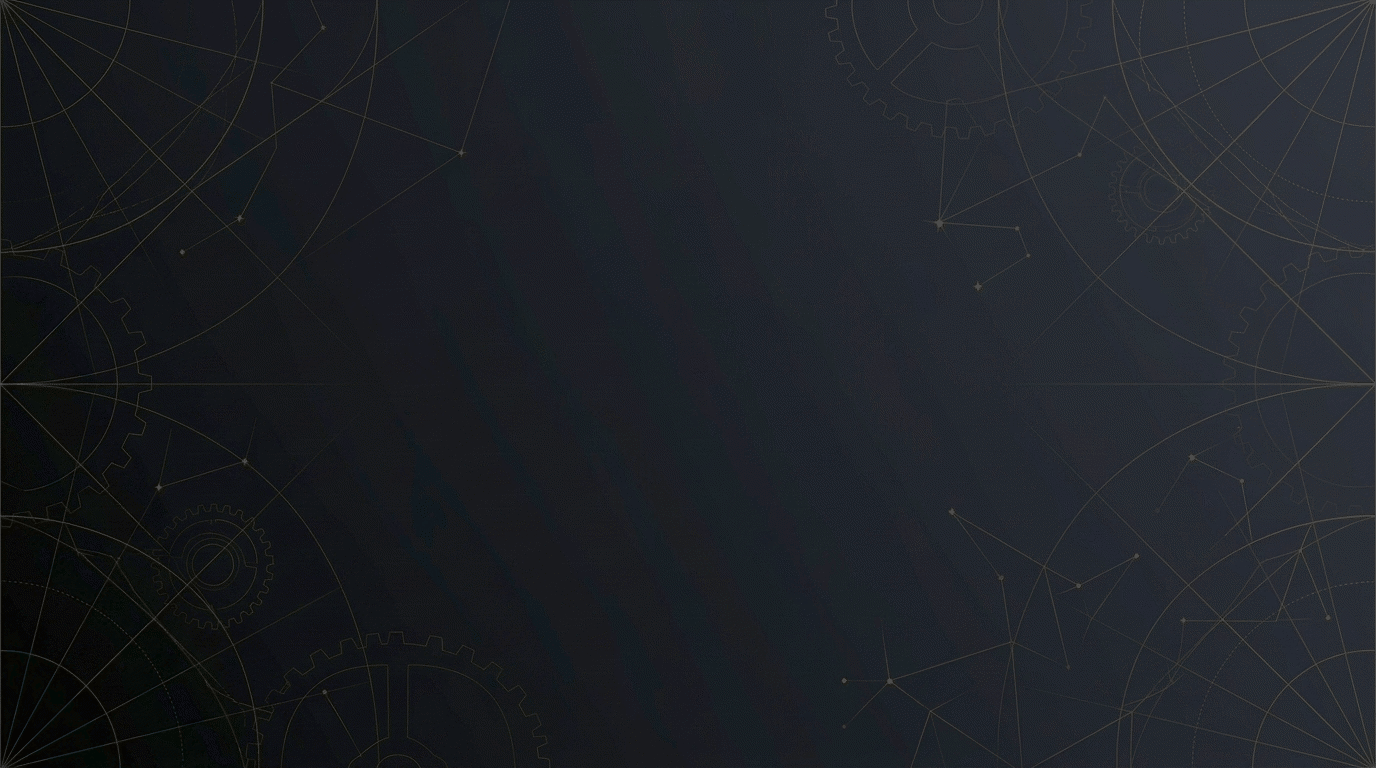
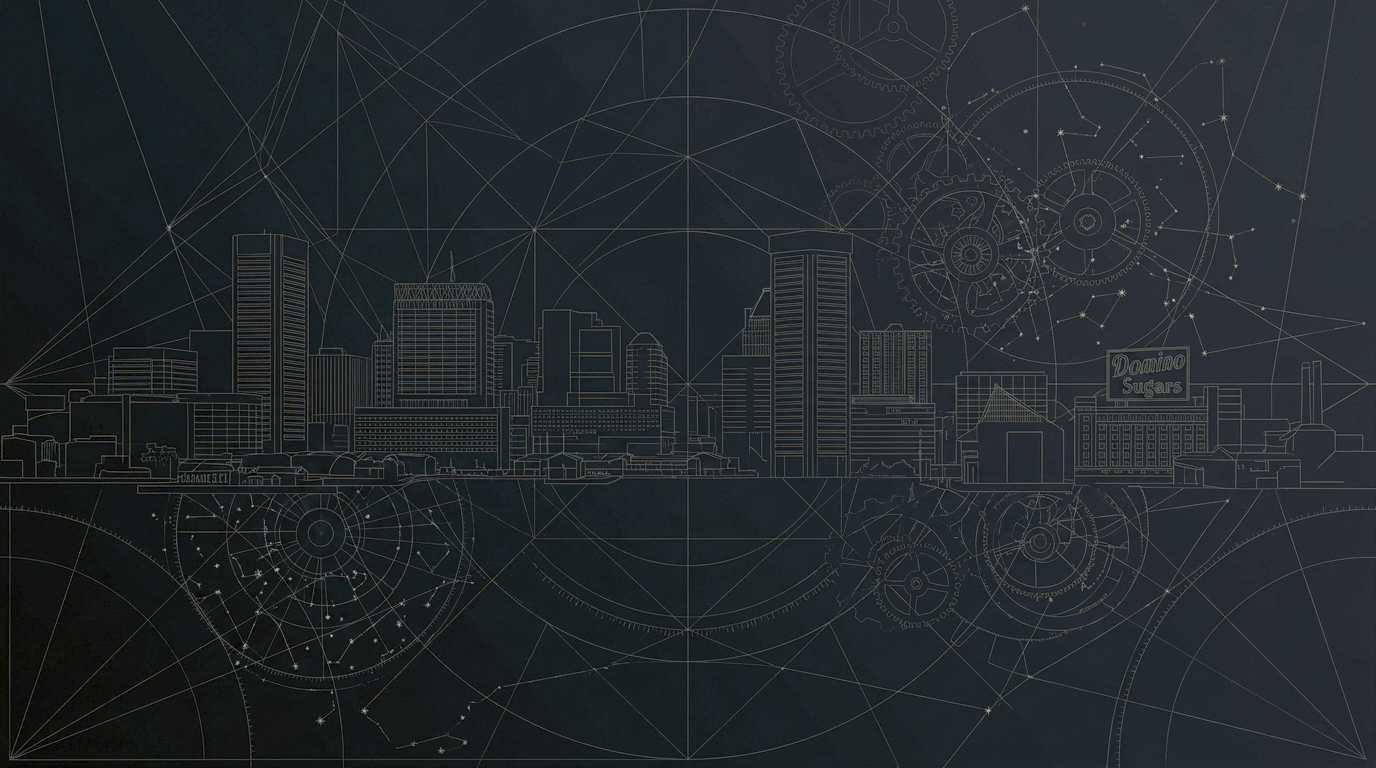
fix(brand): replace backdrop with Baltimore skyline art and gild header actions

diff --git a/src/App.jsx b/src/App.jsx
@@ -533,16 +533,16 @@ export default function App() {
   const latest = state?.latestBlock;
 
   return <div className="min-h-screen">
-    <header className="border-b border-white/[.06]">
+    <header className="site-header border-b border-white/[.06]">
       <div className="mx-auto max-w-[1440px] px-5 py-5 sm:px-8 lg:px-12">
         <div className="flex flex-wrap items-center justify-between gap-5">
           <div className="flex items-center gap-4">
             <CoinEmblem />
             <div><p className="font-display text-xl font-semibold tracking-[.09em] text-[#eee8d8]">THE BANNEKER COIN</p><p className="mt-0.5 text-[9px] uppercase tracking-[.25em] text-[#77756e]">An open monetary protocol <span className="px-1 text-gold">·</span> BNKR</p></div>
           </div>
-          <div className="flex items-center gap-3">
-            <button onClick={() => setModal('whitepaper')} className="quiet-button inline-flex items-center gap-2 rounded-lg px-4 py-2.5 text-xs"><FileKey2 size={14} /> Whitepaper</button>
-            {wallet ? <button onClick={() => setModal('keys')} className="inline-flex items-center gap-2 rounded-lg border border-[#d4af3733] bg-[#d4af370b] px-3 py-2.5 text-xs text-gold"><Fingerprint size={14} /> Wallet <span className="mono text-[#a8a397]">{short(wallet.publicKey)}</span></button> :
+          <div className="header-actions flex items-center gap-3">
+            <button onClick={() => setModal('whitepaper')} className="header-action-button inline-flex items-center gap-2 rounded-lg px-4 py-2.5 text-xs"><FileKey2 size={14} /> Whitepaper</button>
+            {wallet ? <button onClick={() => setModal('keys')} className="header-action-button inline-flex items-center gap-2 rounded-lg px-3 py-2.5 text-xs"><Fingerprint size={14} /> Wallet <span className="mono text-[#a8a397]">{short(wallet.publicKey)}</span></button> :
               <button onClick={() => setModal('wallet')} className="gold-button inline-flex items-center gap-2 rounded-lg px-4 py-2.5 text-xs font-semibold"><Plus size={14} /> Generate Wallet</button>}
           </div>
         </div>

diff --git a/src/index.css b/src/index.css
@@ -22,13 +22,40 @@ body {
   min-height: 100vh;
   background-color: #09090b;
   background-image:
-    linear-gradient(rgba(9, 9, 11, .25), rgba(9, 9, 11, .45)),
+    linear-gradient(180deg, rgba(6, 8, 12, .18) 0%, rgba(6, 8, 12, .10) 30%, rgba(6, 8, 12, .38) 100%),
     url('/bnkr-bg.png');
   background-repeat: no-repeat;
   background-position: center;
   background-size: cover;
   background-attachment: fixed;
 }
+.site-header {
+  /* Semi-transparent so the Baltimore skyline stays visible behind the masthead. */
+  background: linear-gradient(180deg, rgba(6, 8, 12, .32) 0%, rgba(6, 8, 12, .12) 100%);
+}
+.header-actions {
+  padding: 6px;
+  border: 1px solid rgba(212, 175, 55, .18);
+  border-radius: 14px;
+  background: linear-gradient(135deg, rgba(212, 175, 55, .24) 0%, rgba(180, 120, 30, .16) 50%, rgba(16, 185, 129, .12) 100%);
+  box-shadow: inset 0 1px 0 rgba(255, 236, 190, .08), 0 10px 30px rgba(0, 0, 0, .20);
+}
+.header-action-button {
+  color: #f0e6cf;
+  border: 1px solid rgba(212, 175, 55, .26);
+  background: linear-gradient(145deg, rgba(212, 175, 55, .12), rgba(120, 78, 20, .08));
+  box-shadow: inset 0 1px 0 rgba(255, 236, 190, .06);
+  transition: color .2s ease, border-color .2s ease, background .2s ease, box-shadow .2s ease, transform .2s ease;
+}
+.header-action-button:hover:not(:disabled) {
+  color: #fff6de;
+  border-color: rgba(212, 175, 55, .60);
+  background: linear-gradient(145deg, rgba(212, 175, 55, .22), rgba(180, 120, 30, .14));
+  box-shadow: inset 0 1px 0 rgba(255, 236, 190, .12), 0 0 18px rgba(212, 175, 55, .22), 0 0 32px rgba(180, 120, 30, .12);
+  transform: translateY(-1px);
+}
+.header-action-button:focus-visible { outline: 2px solid var(--gold); outline-offset: 2px; }
+
 button, input { font: inherit; }
 button { cursor: pointer; }
 ::selection { color: #09090b; background: #d4af37; }
